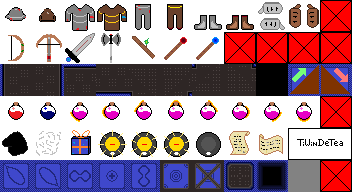
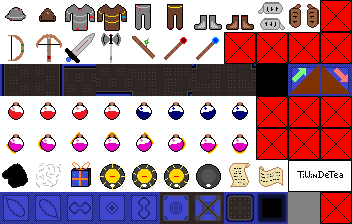
Adding loots and pots animations

diff --git a/src/main/java/com/github/tiwindetea/dungeonoflegend/model/Game.java b/src/main/java/com/github/tiwindetea/dungeonoflegend/model/Game.java
@@ -42,7 +42,7 @@ import java.io.FileWriter;
 import java.io.IOException;
 import java.util.ArrayList;
 import java.util.Collection;
-import java.util.HashMap;
+import java.util.Iterator;
 import java.util.LinkedList;
 import java.util.List;
 import java.util.Locale;
@@ -69,6 +69,8 @@ public class Game implements RequestListener, Runnable, Stopable {
 	private static final int MAX_TRAPS_QTT_PER_LEVEL = 12;
 	private static final int MIN_CHEST_QTT_PER_LEVEL = 2;
 	private static final int MAX_CHEST_QTT_PER_LEVEL = 10;
+	private static final int MIN_MOBS_LOOTS_PER_LEVEL = 10;
+	private static final int MAX_MOBS_LOOTS_PER_LEVEL = 15;
 	private static final int BULB_LOS = 2;
 	private static final int MINIMUN_TURN_TIME_MS = 100;
 	private static final int REFRESH_TIME_MS = 100;
@@ -80,7 +82,7 @@ public class Game implements RequestListener, Runnable, Stopable {
 	private volatile boolean isRunning = false;
 	private int level;
 	private Map world;
-	private HashMap<Vector2i, Pair<StorableObject>> objectsOnGround = new HashMap<>();
+	private List<javafx.util.Pair<Vector2i, Pair<StorableObject>>> objectsOnGround = new LinkedList<>();
 	private List<Mob> mobs = new ArrayList<>();
 	private List<Pair<InteractiveObject>> interactiveObjects = new ArrayList<>();
 	private List<Player> players = new ArrayList<>();
@@ -88,6 +90,7 @@ public class Game implements RequestListener, Runnable, Stopable {
 	private List<Pair<Vector2i>> bulbsOn = new ArrayList<>();
 	private List<Pair<Vector2i>> bulbsOff = new ArrayList<>();
 	private Seed seed;
+	private int mobsLootsQtt;
 	private final List<GameListener> listeners = new ArrayList<>();
 
 	private int playerTurn;
@@ -216,7 +219,7 @@ public class Game implements RequestListener, Runnable, Stopable {
 					Double.parseDouble(playersBundle.getString(pString + "defensePerLevel"))
 			));
 		}
-		this.initNew(players, new Seed(), 1);
+		this.initNew(players, new Seed(-8855273568813872615L, 1490071196521359074L), 1);
 	}
 
 	/**
@@ -256,7 +259,10 @@ public class Game implements RequestListener, Runnable, Stopable {
 
 		for (Player player : players) {
 			player.addToInventory(new Pair<>(new Pot(3, 15, 15, 0, 0, 0, 0)));
+			player.addToInventory(new Pair<>(new Pot(3, 0, 15, 0, 0, 0, 0)));
+			player.addToInventory(new Pair<>(new Pot(3, 15, 15, 1, 1, 1, 1)));
 			player.addToInventory(new Pair<>(new Scroll(10, 1, 1)));
+			player.addToInventory(new Pair<>(new Weapon(5, 5, 0)));
 		}
 		this.currentPlayer = this.players.get(0);
 		fireNextTickEvent(new PlayerNextTickEvent(0));
@@ -580,11 +586,17 @@ public class Game implements RequestListener, Runnable, Stopable {
 		for (Pair<Vector2i> bulb : this.bulbsOn) {
 			fireStaticEntityDeletionEvent(new StaticEntityDeletionEvent(bulb.getId()));
 		}
+
+		for (javafx.util.Pair<Vector2i, Pair<StorableObject>> pair : this.objectsOnGround) {
+			fireStaticEntityDeletionEvent(new StaticEntityDeletionEvent(pair.getValue().getId()));
+		}
+		this.objectsOnGround.clear();
 		System.out.println("Entering level " + this.level + " of seed [" + this.seed.getAlphaSeed() + " ; " + this.seed.getBetaSeed() + "]");
 
 		/* Generate the level and bulbs to turn off */
 		List<Map.Room> rooms = this.world.generateLevel(this.level);
 		fireMapCreationEvent(new MapCreationEvent(this.world.getMapCopy()));
+		System.out.println(this.world.getSize());
 
 
 		this.bulbsOn.clear();
@@ -622,42 +634,9 @@ public class Game implements RequestListener, Runnable, Stopable {
 		/* Generate some chests */
 		for (int i = 0; i < chestsNbr; i++) {
 			Pair<InteractiveObject> pair;
-			chestLevel = random.nextInt(3) + this.level - 1;
+			//TODOchestLevel = random.nextInt(3) + this.level - 1;
 			pos = selectRandomGroundPosition(rooms, random);
-			Vector2i selectedChest = chestSelector(random);
-			selection = selectedChest.y;
-			switch (selectedChest.x) {
-				case 0:
-					Armor armor = new Armor(this.lootsArmorDefensePerLevel[selection] * chestLevel + this.lootsArmorBaseDefense[selection],
-							this.lootsArmorAttackPerLevel[selection] * chestLevel + this.lootsArmorBaseAttack[selection],
-							this.lootsArmorType[selection]);
-					pair = new Pair<>(new InteractiveObject(pos, armor));
-					break;
-				case 1:
-					Weapon weapon = new Weapon(this.lootsWeaponBaseAttack[selection] + this.lootsWeaponAttackPerLevel[selection] * chestLevel,
-							this.lootsWeaponRange[selection],
-							this.lootsWeaponManaCost[selection] + this.lootsWeaponManaCostPerLevel[selection] * chestLevel);
-					pair = new Pair<>(new InteractiveObject(pos, weapon));
-					break;
-				case 2:
-					Scroll scroll = new Scroll(this.lootsScrollTurns[selection],
-							this.lootsScrollBaseDamagePerTurn[selection] + chestLevel * this.lootsScrollDamagePerTurnPerLevel[selection],
-							this.lootsScrollBaseDamageModPerTurn[selection] + chestLevel * this.lootsScrollDamageModPerTurnPerLevel[selection]);
-					pair = new Pair<>(new InteractiveObject(pos, scroll));
-					break;
-				case 3:
-					/* Falls through */
-				default:
-					Pot pot = new Pot(this.lootsPotTurns[selection],
-							this.lootsPotHeal[selection] + this.lootsPotHealPerLevel[selection] * chestLevel,
-							this.lootsPotMana[selection] + this.lootsPotManaPerLevel[selection] * chestLevel,
-							this.lootsPotDefMod[selection],
-							this.lootsPotAttackMod[selection],
-							this.lootsPotHPMod[selection],
-							this.lootsPotManaMod[selection]);
-					pair = new Pair<>(new InteractiveObject(pos, pot));
-					break;
-			}
+			pair = new Pair<>(new InteractiveObject(pos, lootSelector(random)));
 			this.interactiveObjects.add(pair);
 			fireStaticEntityCreationEvent(new StaticEntityCreationEvent(pair.getId(), StaticEntityType.CHEST, pos, pair.object.getDescription()));
 		}
@@ -686,6 +665,8 @@ public class Game implements RequestListener, Runnable, Stopable {
 				}
 			}
 		}
+
+		this.mobsLootsQtt = random.nextInt(MAX_MOBS_LOOTS_PER_LEVEL - MIN_MOBS_LOOTS_PER_LEVEL + 1) + MIN_MOBS_LOOTS_PER_LEVEL;
 
 		this.players.addAll(this.playersOnNextLevel);
 		this.playersOnNextLevel.clear();
@@ -724,17 +705,8 @@ public class Game implements RequestListener, Runnable, Stopable {
 		Vector2i pos = new Vector2i();
 		do {
 			selectedRoom = rooms.get(random.nextInt(rooms.size()));
-			if (selectedRoom.top.x != selectedRoom.bottom.x) {
-				pos.x = random.nextInt(selectedRoom.bottom.x - selectedRoom.top.x) + selectedRoom.top.x;
-			} else {
-				pos.x = selectedRoom.top.x;
-			}
-
-			if (selectedRoom.top.y != selectedRoom.bottom.y) {
-				pos.y = random.nextInt(selectedRoom.bottom.y - selectedRoom.top.y) + selectedRoom.top.y;
-			} else {
-				pos.y = selectedRoom.top.y;
-			}
+			pos.x = random.nextInt(selectedRoom.bottom.x - selectedRoom.top.x + 1) + selectedRoom.top.x;
+			pos.y = random.nextInt(selectedRoom.bottom.y - selectedRoom.top.y + 1) + selectedRoom.top.y;
 		} while (!isAccessible(pos));
 		return pos;
 	}
@@ -815,12 +787,15 @@ public class Game implements RequestListener, Runnable, Stopable {
 				} else if ((pos = player.getRequestedAttack()) != null) {
 				/* See if the player can attack as he wants to (ignoring the los) [TODO ?] */
 					if (playerPos.squaredDistance(pos) <= Math.pow(player.getAttackRange(), 2)) {
-						int j = this.mobs.indexOf(new Mob(pos));
-						if (j >= 0) {
-							player.attack(this.mobs.get(j));
-						} else {
-							// Healing by 20%, because why not
-							player.heal(player.getMaxHitPoints() / 5);
+						boolean[][] los = this.world.getLOS(playerPos, player.getLos());
+						if (los[los.length / 2 - playerPos.x + pos.x][los[0].length / 2 - playerPos.y + pos.y]) {
+							int j = this.mobs.indexOf(new Mob(pos));
+							if (j >= 0) {
+								player.attack(this.mobs.get(j));
+							} else {
+								// Healing by 20%, because why not
+								player.heal(player.getMaxHitPoints() / 5);
+							}
 						}
 					}
 					player.setRequestedAttack(null);
@@ -843,7 +818,7 @@ public class Game implements RequestListener, Runnable, Stopable {
 								drop.object.getDescription()
 						));
 						player.dropRequestAccepted();
-						this.objectsOnGround.put(pos, drop);
+						this.objectsOnGround.add(new javafx.util.Pair<>(pos, drop));
 					}
 				} else {
 					String msg = "Nothing to do with player " + player.getName()
@@ -891,8 +866,20 @@ public class Game implements RequestListener, Runnable, Stopable {
 			}
 		}
 
+		Random random = new Random();
 		for (Mob mob : mobToDelete) {
 			fireLivingEntityDeletionEvent(new LivingEntityDeletionEvent(mob.getId()));
+			if (random.nextInt(101) < 100 * this.mobsLootsQtt / this.mobs.size()) {
+				this.mobsLootsQtt--;
+				Pair<StorableObject> loot = new Pair<>(lootSelector(random));
+				this.objectsOnGround.add(new javafx.util.Pair<>(mob.getPosition(), loot));
+				fireStaticEntityCreationEvent(new StaticEntityCreationEvent(
+						loot.getId(),
+						loot.object.getGType(),
+						mob.getPosition(),
+						loot.object.getDescription()
+				));
+			}
 			this.mobs.remove(mob);
 		}
 
@@ -931,18 +918,23 @@ public class Game implements RequestListener, Runnable, Stopable {
 		/* Scanning for loots&chests to give to players, for traps, next level & light bulb */
 		for (Player player : this.players) {
 			pos = player.getPosition();
-			Pair<StorableObject> drop = this.objectsOnGround.get(pos);
 
-			while (drop != null && player.addToInventory(drop)) {
-				fireStaticEntityDeletionEvent(new StaticEntityDeletionEvent(drop.getId()));
-				this.objectsOnGround.remove(pos, drop);
-				drop = this.objectsOnGround.get(pos);
-			}
+			if (!player.isARequestPending()) {
+				Iterator<javafx.util.Pair<Vector2i, Pair<StorableObject>>> iter = this.objectsOnGround.iterator();
+				while (iter.hasNext()) {
+					javafx.util.Pair<Vector2i, Pair<StorableObject>> objPair = iter.next();
+					System.out.println(objPair.getKey());
+					if (objPair.getKey().equals(pos) && player.addToInventory(objPair.getValue())) {
+						fireStaticEntityDeletionEvent(new StaticEntityDeletionEvent(objPair.getValue().getId()));
+						iter.remove();
+					}
+				}
 
-			if (player.getPosition().equals(this.world.getStairsDownPosition()) && !player.isARequestPending()) {
-				player.setFloor(this.level + 1);
-				player.setPosition(new Vector2i(0, 0));
-				fireLivingEntityDeletionEvent(new LivingEntityDeletionEvent(player.getId()));
+				if (player.getPosition().equals(this.world.getStairsDownPosition())) {
+					player.setFloor(this.level + 1);
+					player.setPosition(new Vector2i(0, 0));
+					fireLivingEntityDeletionEvent(new LivingEntityDeletionEvent(player.getId()));
+				}
 			}
 
 			for (int i = 0; i < this.bulbsOn.size(); i++) {
@@ -1083,11 +1075,48 @@ public class Game implements RequestListener, Runnable, Stopable {
 				this.mobsChaseRange[selectedMob],
 				mobPos.copy());
 		this.mobs.add(mob);
+		System.out.println("mobPos = " + mobPos);
 		fireLivingEntityCreationEvent(new LivingEntityCreationEvent(mob.getId(), this.mobsTypes[selectedMob],
 				mobPos.copy(), Direction.DOWN, mob.getDescription()));
 	}
 
-	private Vector2i chestSelector(Random random) {
+	private StorableObject lootSelector(Random random) {
+		int chestLevel = random.nextInt(3) + this.level - 1;
+		Vector2i selectedChest = stuffSelector(random);
+		int selection = selectedChest.y;
+		StorableObject ans;
+		switch (selectedChest.x) {
+			case 0:
+				ans = new Armor(this.lootsArmorDefensePerLevel[selection] * chestLevel + this.lootsArmorBaseDefense[selection],
+						this.lootsArmorAttackPerLevel[selection] * chestLevel + this.lootsArmorBaseAttack[selection],
+						this.lootsArmorType[selection]);
+				break;
+			case 1:
+				ans = new Weapon(this.lootsWeaponBaseAttack[selection] + this.lootsWeaponAttackPerLevel[selection] * chestLevel,
+						this.lootsWeaponRange[selection],
+						this.lootsWeaponManaCost[selection] + this.lootsWeaponManaCostPerLevel[selection] * chestLevel);
+				break;
+			case 2:
+				ans = new Scroll(this.lootsScrollTurns[selection],
+						this.lootsScrollBaseDamagePerTurn[selection] + chestLevel * this.lootsScrollDamagePerTurnPerLevel[selection],
+						this.lootsScrollBaseDamageModPerTurn[selection] + chestLevel * this.lootsScrollDamageModPerTurnPerLevel[selection]);
+				break;
+			case 3:
+					/* Falls through */
+			default:
+				ans = new Pot(this.lootsPotTurns[selection],
+						this.lootsPotHeal[selection] + this.lootsPotHealPerLevel[selection] * chestLevel,
+						this.lootsPotMana[selection] + this.lootsPotManaPerLevel[selection] * chestLevel,
+						this.lootsPotDefMod[selection],
+						this.lootsPotAttackMod[selection],
+						this.lootsPotHPMod[selection],
+						this.lootsPotManaMod[selection]);
+				break;
+		}
+		return ans;
+	}
+
+	private Vector2i stuffSelector(Random random) {
 		Vector2i ans = new Vector2i();
 		int rand = random.nextInt(this.lootsLikelihoodSum);
 		int sum = this.lootsArmorLikelihoodSum;
@@ -1098,14 +1127,12 @@ public class Game implements RequestListener, Runnable, Stopable {
 		} else {
 			sum += this.lootsWeaponLikelihoodSum;
 			if (rand <= sum) {
-				System.out.println("Weapon");
 				ans.x = 1;
 				ans.y = randomSelector(random, this.lootsWeaponLikelihoodSum, this.lootsWeaponLikelihood);
 
 			} else {
 				sum += this.lootsScrollLikelihoodSum;
 				if (rand <= sum) {
-					System.out.println("Scroll");
 					ans.x = 2;
 					ans.y = randomSelector(random, this.lootsScrollLikelihoodSum, this.lootsScrollLikelihood);
 
@@ -1158,10 +1185,11 @@ public class Game implements RequestListener, Runnable, Stopable {
 								treatRequestEvent((CenterViewRequestEvent) event);
 								break;
 						}
-						event = this.requestedEvent.poll();
 					} catch (Exception e) {
 						// debug
 						e.printStackTrace();
+					} finally {
+						event = this.requestedEvent.poll();
 					}
 				}
 				if (this.currentPlayer.isARequestPending() || this.currentPlayer.getFloor() != this.level) {

diff --git a/src/main/java/com/github/tiwindetea/dungeonoflegend/model/Player.java b/src/main/java/com/github/tiwindetea/dungeonoflegend/model/Player.java
@@ -742,13 +742,12 @@ public class Player extends LivingThing {
 	 * {@inheritDoc}
 	 */
 	@Override
-	// FIXME : I can see imaginary mobs
 	public void live(List<Mob> mobs, Collection<Player> players, boolean[][] los) {
 		boolean localSawDuck = false;
 		for (int i = 0; i < mobs.size() && !localSawDuck; ++i) {
 			Vector2i pos = mobs.get(i).getPosition();
 			if (pos.squaredDistance(this.position) <= this.squaredLOS) {
-				if (los[los.length / 2 + this.position.x - pos.x][los[0].length / 2 + this.position.y - pos.y]) {
+				if (los[los.length / 2 - this.position.x + pos.x][los[0].length / 2 - this.position.y + pos.y]) {
 					localSawDuck = true;
 				}
 			}

diff --git a/src/main/java/com/github/tiwindetea/dungeonoflegend/model/Vector2i.java b/src/main/java/com/github/tiwindetea/dungeonoflegend/model/Vector2i.java
@@ -56,6 +56,12 @@ public class Vector2i {
 		this.y = y;
 	}
 
+	@Override
+	public boolean equals(Object o) {
+		/* Asserting o to be a Vector2i */
+		return ((Vector2i) o).equals(this);
+	}
+
 	/**
 	 * Equals.
 	 *
